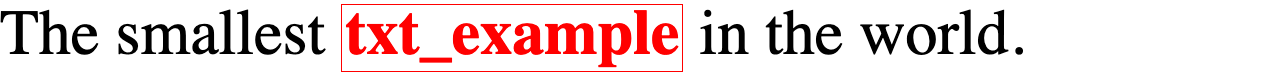
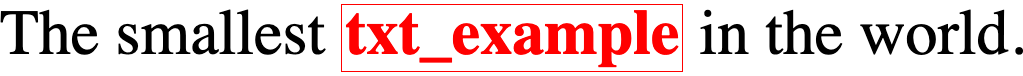
injaNG [Flavour - Contrib. - HTML image trimed]

diff --git a/jinjang/contribute/api/dsl/html/images/build_screenshots.py b/jinjang/contribute/api/dsl/html/images/build_screenshots.py
@@ -1,5 +1,7 @@
 #!/usr/bin/env python3
 
+from PIL import Image, ImageChops
+
 from playwright.sync_api import sync_playwright
 
 from mistool.os_use import PPath as Path
@@ -13,6 +15,8 @@ THIS_FILE = Path(__file__)
 THIS_DIR  = Path(THIS_FILE).parent
 
 
+HTML_FILE = THIS_DIR / 'exavar.html'
+PNG_FILE  = THIS_DIR / 'exavar.png'
 
 # ------------------------ #
 # -- LET'S DO ONE PHOTO -- #
@@ -22,6 +26,37 @@ with sync_playwright() as p:
     browser = p.firefox.launch()
 
     page = browser.new_page()
-    page.goto("file://" + str(THIS_DIR / 'exavar.html'))
-    page.locator('p').screenshot(path = str(THIS_DIR / 'exavar.png'))
+    page.goto(f"file://{HTML_FILE}")
+    page.locator('p') \
+        .screenshot(path = PNG_FILE)
     browser.close()
+
+
+# -------------------- #
+# -- TRIM OUR IMAGE -- #
+# -------------------- #
+
+im = Image.open(PNG_FILE)
+
+background = im.getpixel((0, 0))
+
+leftmost = im.size[0] - 1
+height   = im.size[1]
+
+while True:
+    onlybg = True
+
+    for r in range(0, height):
+        if im.getpixel((leftmost, r)) != background:
+            onlybg = False
+            break
+
+    if not onlybg:
+        break
+
+    leftmost -= 1
+
+(left, upper, right, lower) = (0, 0, leftmost, height - 1)
+im = im.crop((left, upper, right, lower))
+
+im.save(PNG_FILE)
